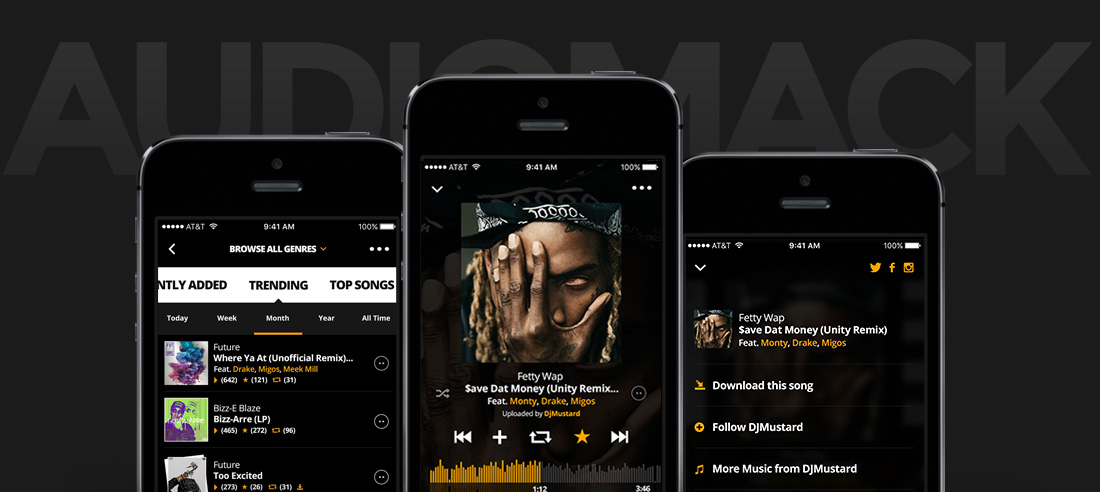
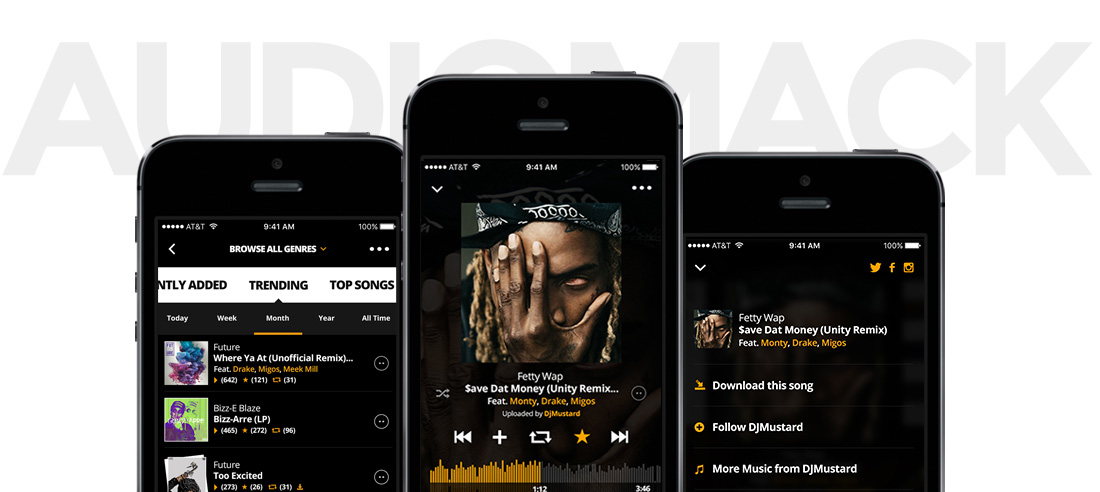
White tops

diff --git a/css/style.css b/css/style.css
@@ -658,7 +658,8 @@ path {
     font-family: "Playfair Display", serif;
     font-size: 37px;
     margin: 0;
-    letter-spacing: -1.5px; }
+    letter-spacing: -1.5px;
+    color: #222; }
     @media screen and (max-width: 700px) {
       .studio h3 {
         line-height: 1.4; } }
@@ -1675,23 +1676,24 @@ div.project-assets img {
     top: 0; } }
 
 .hero {
-  background: #1b1b1b; }
+  background: #fff; }
 
-.light-spot {
-  position: absolute;
-  width: 100%;
-  height: 100%;
-  top: 0;
-  left: 0;
-  z-index: 10;
-  background: -webkit-gradient(radial, 100px 80px, 0px, center center, 100%, color-stop(0%, #424242), color-stop(50%, rgba(66, 66, 66, 0)), color-stop(100%, rgba(66, 66, 66, 0)));
-  background: radial-gradient(ellipse at 100px 80px, #424242 0%, rgba(66, 66, 66, 0) 50%, rgba(66, 66, 66, 0) 100%); }
-  @media screen and (max-width: 640px) {
-    .light-spot {
-      display: none; } }
-
+/*.light-spot{
+	position:absolute;
+	width:100%;height:100%;
+	top:0;left:0;
+	z-index:10;
+	background:-webkit-gradient(radial, 100px 80px, 0px, center center, 100%, color-stop(0%, rgba(66,66,66,1)), color-stop(50%, rgba(66,66,66,0)), color-stop(100%, rgba(66,66,66,0)));
+	background:radial-gradient(ellipse at 100px 80px, rgba(66,66,66,1) 0%, rgba(66,66,66,0) 50%, rgba(66,66,66,0) 100%);
+	
+	@media screen and ( max-width:640px ){
+		display:none
+	}
+	
+}
+*/
 .hero-inner {
-  background: #1b1b1b;
+  background: #fff;
   text-align: center;
   margin: 0 auto;
   padding: 200px 40px 0;
@@ -1721,11 +1723,11 @@ div.project-assets img {
     padding-top: 105px; } }
 
 .hero-inner h1 {
-  color: #fff;
+  color: #333;
   font-family: 'Playfair Display', serif;
-  font-size: 40px;
-  letter-spacing: -1.5px;
-  line-height: 50px;
+  font-size: 46px;
+  letter-spacing: -1.75px;
+  line-height: 52px;
   margin-bottom: 25px;
   position: relative;
   z-index: 15; }
@@ -1750,8 +1752,8 @@ div.project-assets img {
   .loaded .hero-image {
     -webkit-animation: textSlideInUp 0.5s forwards ease;
     animation: textSlideInUp 0.5s forwards ease;
-    -webkit-animation-delay: 1.5s;
-    animation-delay: 1.5s; }
+    -webkit-animation-delay: 0.95s;
+    animation-delay: 0.95s; }
 
 .bxslider {
   z-index: 5; }

diff --git a/css/style.scss b/css/style.scss
@@ -1076,11 +1076,11 @@ div.project-assets img{
 }
 
 .hero{
-	background:#1b1b1b;
+	background:#fff;
 	//opacity:0;
 }
 
-.light-spot{
+/*.light-spot{
 	position:absolute;
 	width:100%;height:100%;
 	top:0;left:0;
@@ -1093,10 +1093,10 @@ div.project-assets img{
 	}
 	
 }
-
+*/
 
 .hero-inner{
-	background:#1b1b1b;
+	background:#fff;
 	text-align:center;
 	margin:0 auto;
 	padding:200px 40px 0;
@@ -1134,11 +1134,11 @@ div.project-assets img{
 }
 
 .hero-inner h1{
-	color: #fff;
+	color: #333;
 	font-family: 'Playfair Display', serif;
-	font-size: 40px;
-	letter-spacing: -1.5px;
-	line-height: 50px;
+	font-size: 46px;
+	letter-spacing: -1.75px;
+	line-height: 52px;
 	margin-bottom:25px;
 	position:relative;
 	z-index:15
@@ -1162,9 +1162,8 @@ div.project-assets img{
 	.loaded &{
 		-webkit-animation:textSlideInUp .5s forwards ease;
 		animation:textSlideInUp .5s forwards ease;
-		-webkit-animation-delay:1.5s;
-		animation-delay:1.5s
-	}
+		-webkit-animation-delay:0.95s;
+		animation-delay:0.95s	}
 		
 }
 
@@ -1241,6 +1240,5 @@ div.project-assets img{
 .bx-controls.bx-has-pager a.active:before{
 	background-color:#bdd326
 }
-
 
 

diff --git a/css/theme/_studio.scss b/css/theme/_studio.scss
@@ -90,6 +90,7 @@
 		font-size:37px;
 		margin:0;
 		letter-spacing:-1.5px;
+		color: #222;
 		
 		@media screen and (max-width:700px){
 			line-height:1.4

diff --git a/index.php b/index.php
@@ -6,11 +6,13 @@
 	
 		<div class="light-spot"></div><!--/.light-spot-->
 	
-		<div class="logo-main home fade-in faded"><a href="index.php"><img class="logo" src="https://s3-us-west-2.amazonaws.com/purenine/logo-light%402x.png" width="110" height="24" data-pin-nopin="true"></a></div>
+		<div class="logo-main home fade-in faded"><a href="index.php"><img class="logo" src="https://s3-us-west-2.amazonaws.com/purenine/logo%402x.png" width="110" height="24" data-pin-nopin="true"></a></div>
 	
 		<div class="hero-inner">
 		
-			<h1><i class="animate-hero">We are a digital studio</i> <i class="animate-hero">offering a variety <br/>of solutions in</i> <i class="animate-hero"><span>product development, <br/>mobile</span> and <span>visual design.</span></i></h1>
+			<h1>
+			<i class="animate-hero">We are a digital studio offering a variety <br/>of solutions in <span>product development, <br/>mobile</span> and <span>visual design.</span></i> 
+			</h1>
 			
 			<div class="hero-image">
 			
@@ -30,7 +32,7 @@
 					
 		</div><!--/.hero-inner-->
 		
-		<div class="flare"></div>
+
 	
 	</div><!--/.hero-->
 
